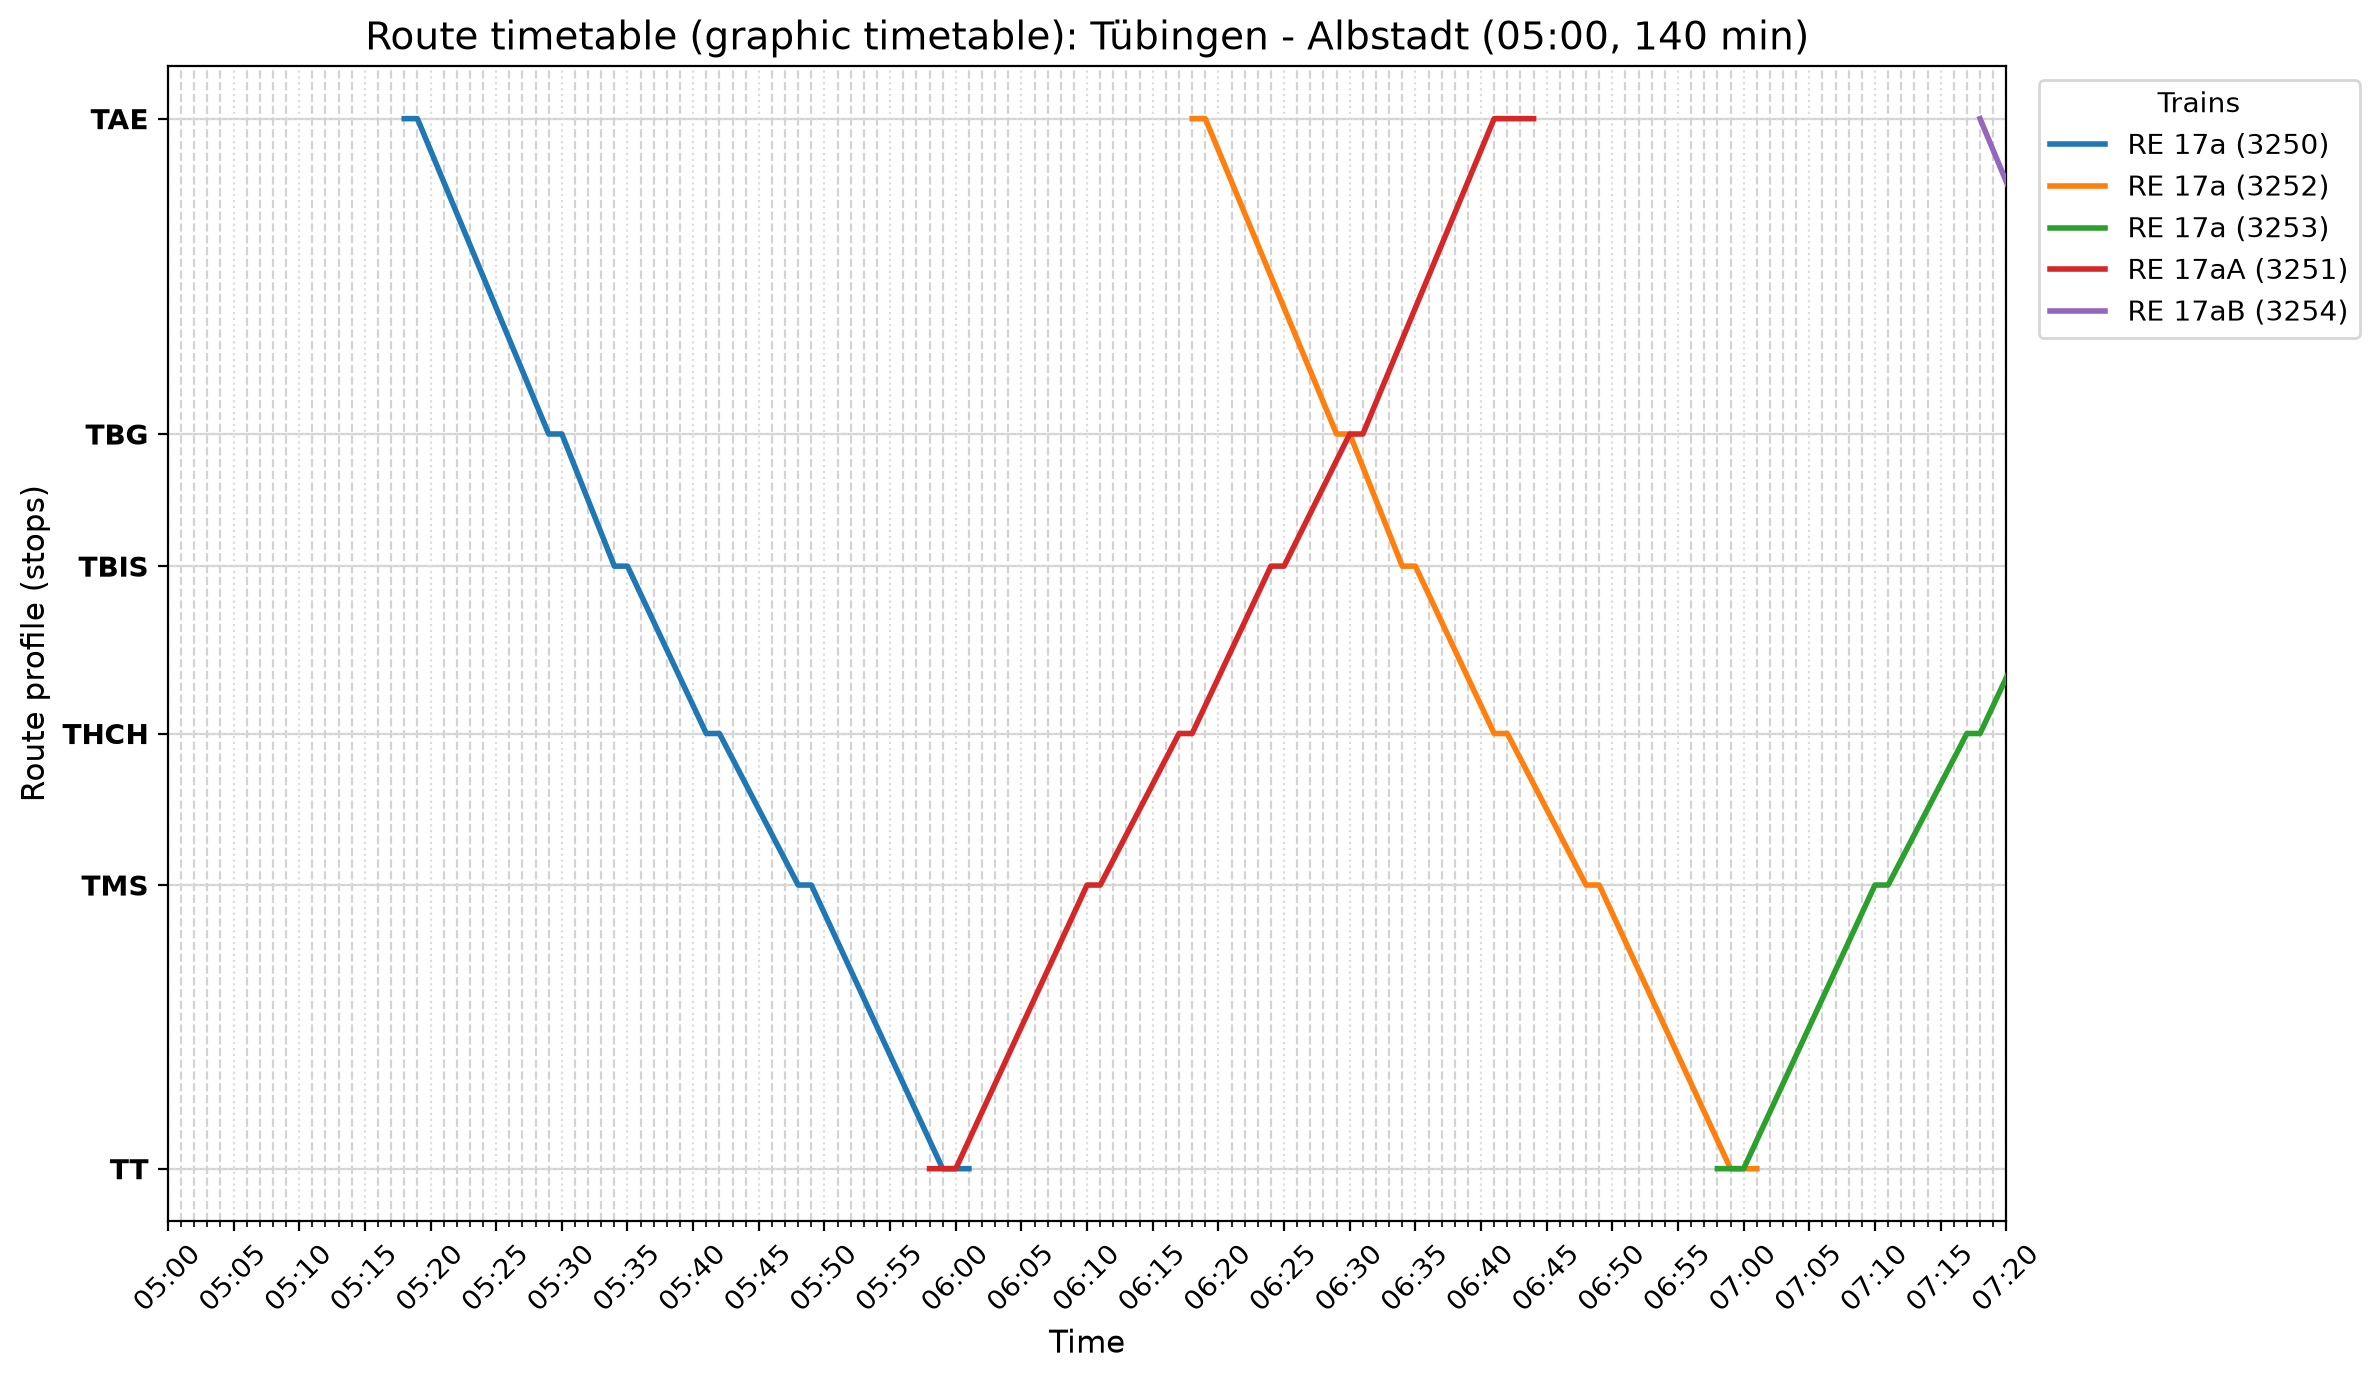
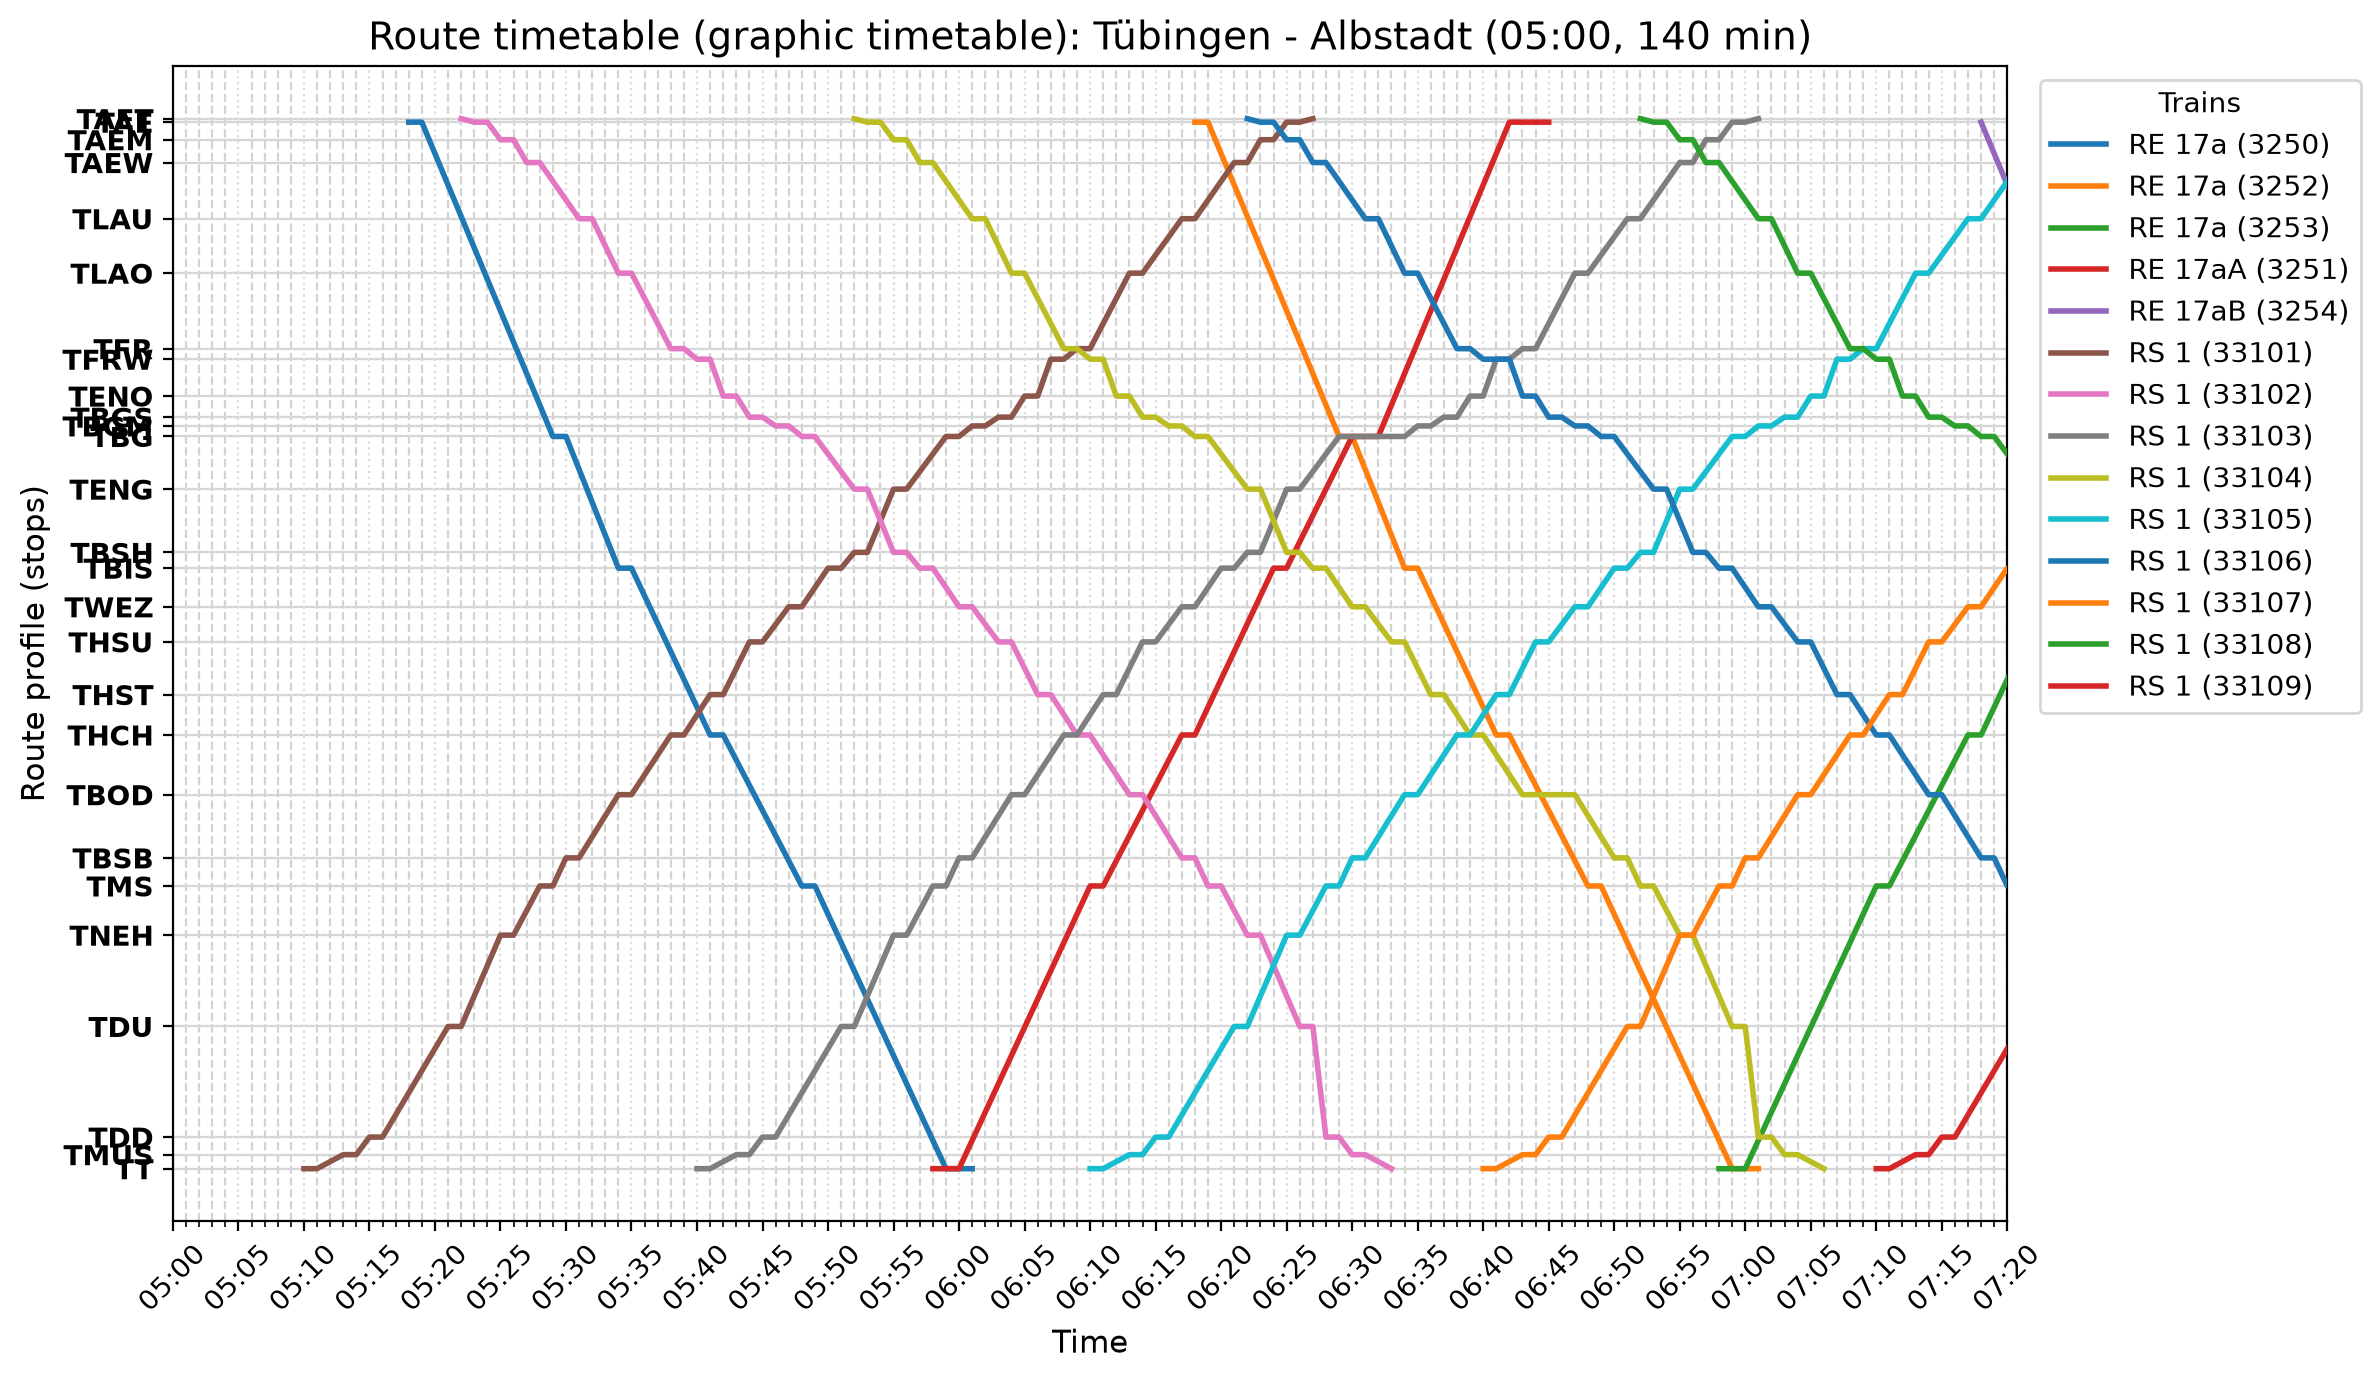
add S1 trains

Changed region(s): [[0.0311, 0.0, 0.9954, 0.9971], [0.8087, 0.1558, 0.8398, 0.187]]

diff --git a/main.py b/main.py
@@ -8,7 +8,7 @@ RS1_TUEBINGEN_ALBSTADT = {
         {"station_id": station_code_to_id("TT"), "arrival": None, "departure": 0, "platform": 11},
         {"station_id": station_code_to_id("TMUS"), "arrival": 2, "departure": 1, "platform": 2},
         {"station_id": station_code_to_id("TDD"), "arrival": 1, "departure": 1, "platform": 2},
-        {"station_id": station_code_to_id("TST"), "arrival": 1, "departure": 1, "platform": 2},
+        #{"station_id": station_code_to_id("TST"), "arrival": 1, "departure": 1, "platform": 2},
         {"station_id": station_code_to_id("TDU"), "arrival": 5, "departure": 1, "platform": 2},
         {"station_id": station_code_to_id("TNEH"), "arrival": 3, "departure": 1, "platform": 1},
         {"station_id": station_code_to_id("TMS"), "arrival": 2, "departure": 1, "platform": 2},
@@ -28,7 +28,7 @@ RS1_TUEBINGEN_ALBSTADT = {
         {"station_id": station_code_to_id("TFRW"), "arrival": 1, "departure": 1, "platform": 2},
         {"station_id": station_code_to_id("TFR"), "arrival": 1, "departure": 1, "platform": 1},
         {"station_id": station_code_to_id("TLAO"), "arrival": 3, "departure": 1, "platform": 1},
-        {"station_id": station_code_to_id("TALT"), "arrival": 3, "departure": 1, "platform": 1},
+        {"station_id": station_code_to_id("TLAU"), "arrival": 3, "departure": 1, "platform": 1},
         {"station_id": station_code_to_id("TAEW"), "arrival": 3, "departure": 1, "platform": 2},
         {"station_id": station_code_to_id("TAEM"), "arrival": 1, "departure": 1, "platform": 1},
         {"station_id": station_code_to_id("TAE"), "arrival": 1, "departure": 1, "platform": 1},
@@ -43,7 +43,7 @@ RS1_ALBSTADT_TUEBINGEN = {
         {"station_id": station_code_to_id("TAE"), "arrival": 1, "departure": 1, "platform": 1},
         {"station_id": station_code_to_id("TAEM"), "arrival": 1, "departure": 1, "platform": 1},
         {"station_id": station_code_to_id("TAEW"), "arrival": 1, "departure": 1, "platform": 1},
-        {"station_id": station_code_to_id("TALT"), "arrival": 3, "departure": 1, "platform": 2},
+        {"station_id": station_code_to_id("TLAU"), "arrival": 3, "departure": 1, "platform": 2},
         {"station_id": station_code_to_id("TLAO"), "arrival": 2, "departure": 1, "platform": 1},
         {"station_id": station_code_to_id("TFR"), "arrival": 3, "departure": 1, "platform": 1},
         {"station_id": station_code_to_id("TFRW"), "arrival": 1, "departure": 1, "platform": 1},
@@ -63,7 +63,7 @@ RS1_ALBSTADT_TUEBINGEN = {
         {"station_id": station_code_to_id("TMS"), "arrival": 1, "departure": 1, "platform": 1},
         {"station_id": station_code_to_id("TNEH"), "arrival": 2, "departure": 1, "platform": 2},
         {"station_id": station_code_to_id("TDU"), "arrival": 3, "departure": 1, "platform": 1},
-        {"station_id": station_code_to_id("TST"), "arrival": 5, "departure": 1, "platform": 1},
+        #{"station_id": station_code_to_id("TST"), "arrival": 5, "departure": 1, "platform": 1},
         {"station_id": station_code_to_id("TDD"), "arrival": 1, "departure": 1, "platform": 1},
         {"station_id": station_code_to_id("TMUS"), "arrival": 1, "departure": 1, "platform": 1},
         {"station_id": station_code_to_id("TT"), "arrival": 2, "departure": None, "platform": 11},
@@ -411,6 +411,7 @@ RE_3251 = Train.from_blueprint(3251, RE17A_REUTLINGEN_ALBSTADT, "RE 17a", "5:47"
 RE_3251.set_origin("RTU", 1, platform=2)
 RE_3251.change_platform(station_code_to_id("TT"), 2)
 RE_3251.extend_stop(station_code_to_id("TAE"), 3)
+RE_3251.extend_stop(station_code_to_id("TBG"), 1)
 
 RE_3252 = Train.from_blueprint(3252, RE17A_ALBSTADT_REUTLINGEN, "RE 17a", "6:17", "LPPLPPL", "REGIONAL", 160)
 RE_3252.set_origin(station_code_to_id("TAEA"), 1, platform=1)
@@ -465,6 +466,55 @@ RE_19708.change_platform(station_code_to_id("TT"), 3)
 
 _RE17_TRAINS = [RE_3250, RE_3251, RE_3252, RE_3253, RE_19701, RE_19702, RE_19703, RE_19704, RE_19705, RE_19706, RE_19707, RE_19708]
 
+## S1 Trains
+S1_33101 = Train.from_blueprint(33101, RS1_TUEBINGEN_ALBSTADT, "RS 1", "5:10", "LPLPL")
+S1_33101.set_origin(station_code_to_id("TTBW"), 2, platform=1)
+S1_33101.change_platform(station_code_to_id("TT"), 11)
+
+S1_33103 = Train.from_blueprint(33103, RS1_TUEBINGEN_ALBSTADT, "RS 1", "5:40", "LPLPL")
+S1_33103.set_origin(station_code_to_id("TTBW"), 2, platform=1)
+S1_33103.change_platform(station_code_to_id("TT"), 11)
+S1_33103.extend_stop(station_code_to_id("TBG"), 4)
+
+S1_33105 = Train.from_blueprint(33105, RS1_TUEBINGEN_ALBSTADT, "RS 1", "6:10", "LPLPL")
+S1_33105.set_origin(station_code_to_id("TTBW"), 2, platform=1)
+S1_33105.change_platform(station_code_to_id("TT"), 11)
+
+S1_33107 = Train.from_blueprint(33107, RS1_TUEBINGEN_ALBSTADT, "RS 1", "6:40", "LPLPL")
+S1_33107.set_origin(station_code_to_id("TTBW"), 2, platform=1)
+S1_33107.change_platform(station_code_to_id("TT"), 11)
+
+S1_33109 = Train.from_blueprint(33109, RS1_TUEBINGEN_ALBSTADT, "RS 1", "7:10", "LPLPL")
+S1_33109.set_origin(station_code_to_id("TTBW"), 2, platform=1)
+S1_33109.change_platform(station_code_to_id("TT"), 11)
+
+S1_33111 = Train.from_blueprint(33111, RS1_TUEBINGEN_ALBSTADT, "RS 1", "7:40", "LPLPL")
+S1_33111.set_origin(station_code_to_id("TTBW"), 2, platform=1)
+S1_33111.change_platform(station_code_to_id("TT"), 11)
+
+S1_33102 = Train.from_blueprint(33102, RS1_ALBSTADT_TUEBINGEN, "RS 1", "5:22", "LPLPL")
+S1_33102.change_platform(station_code_to_id("TT"), 11)
+
+S1_33104 = Train.from_blueprint(33104, RS1_ALBSTADT_TUEBINGEN, "RS 1", "5:52", "LPLPL")
+S1_33104.change_platform(station_code_to_id("TT"), 11)
+S1_33104.extend_stop(station_code_to_id("TBOD"), 3) # overtake by RE
+S1_33104.change_platform(station_code_to_id("TBOD"), 2)
+
+S1_33106 = Train.from_blueprint(33106, RS1_ALBSTADT_TUEBINGEN, "RS 1", "6:22", "LPLPL")
+S1_33106.change_platform(station_code_to_id("TT"), 11)
+S1_33106.extend_stop(station_code_to_id("TFRW"), 1)
+
+S1_33108 = Train.from_blueprint(33108, RS1_ALBSTADT_TUEBINGEN, "RS 1", "6:52", "LPLPL")
+S1_33108.change_platform(station_code_to_id("TT"), 11)
+
+S1_33110 = Train.from_blueprint(33110, RS1_ALBSTADT_TUEBINGEN, "RS 1", "7:22", "LPLPL")
+S1_33110.change_platform(station_code_to_id("TT"), 11)
+
+S1_33112 = Train.from_blueprint(33112, RS1_ALBSTADT_TUEBINGEN, "RS 1", "7:52", "LPLPL")
+S1_33112.change_platform(station_code_to_id("TT"), 11)
+
+_S1_TRAINS = [S1_33101, S1_33102, S1_33103, S1_33104, S1_33105, S1_33106, S1_33107, S1_33108, S1_33109, S1_33110, S1_33111, S1_33112]
+
 #################################
 ############# TRAINS #############
 #################################
@@ -472,6 +522,7 @@ _RE17_TRAINS = [RE_3250, RE_3251, RE_3252, RE_3253, RE_19701, RE_19702, RE_19703
 TRAINS = [
     *_MEX_TRAINS,
     *_RE17_TRAINS,
+    *_S1_TRAINS
 ]
 
 
@@ -487,8 +538,8 @@ def main():
     generate_line_timetable(TRAINS, selected_section, "06:00", 140)
     #generate_line_timetable(TRAINS, "Albstadt - Tübingen", "5:00", 140)
     print(RE_3251.timetable())
-    print(RE_3252.timetable())
-    # export_trains_txt(TRAINS)
+    print(S1_33106.timetable())
+    export_trains_txt(TRAINS)
 
 
 if __name__ == "__main__":

diff --git a/README.md b/README.md
@@ -133,14 +133,16 @@ train_19317.add_leg(train_19317_leg_b, intermission=12)
 TRAINS = [train_19317]
 ```
 
-For a train named `MEX 13`, the exported reporting numbers are:
+Train rows use a compact identifier derived from the service prefix and the
+actual train or leg ID. For example, `MEX 13` with ID `19301` is exported as:
 
 ```text
-MEX 13|MEX 13A
-MEX 13|MEX 13B
+MEX_19301|MEX_19301
+MEX_19317|MEX_19317
+MEX_19317B|MEX_19317B
 ```
 
-Names are not normalized: the space in `MEX 13` remains present.
+The identifier contains no spaces. A second leg uses its own ID.
 
 Use `timetable()` while building a train. It displays the stable train ID,
 leg boundaries, intermissions, and one-based positions:
